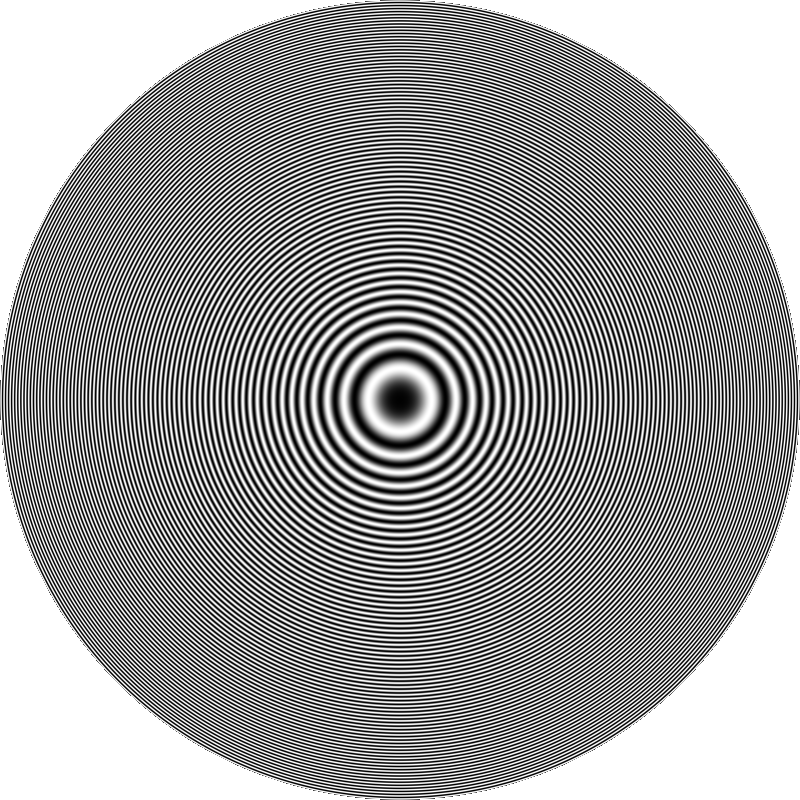
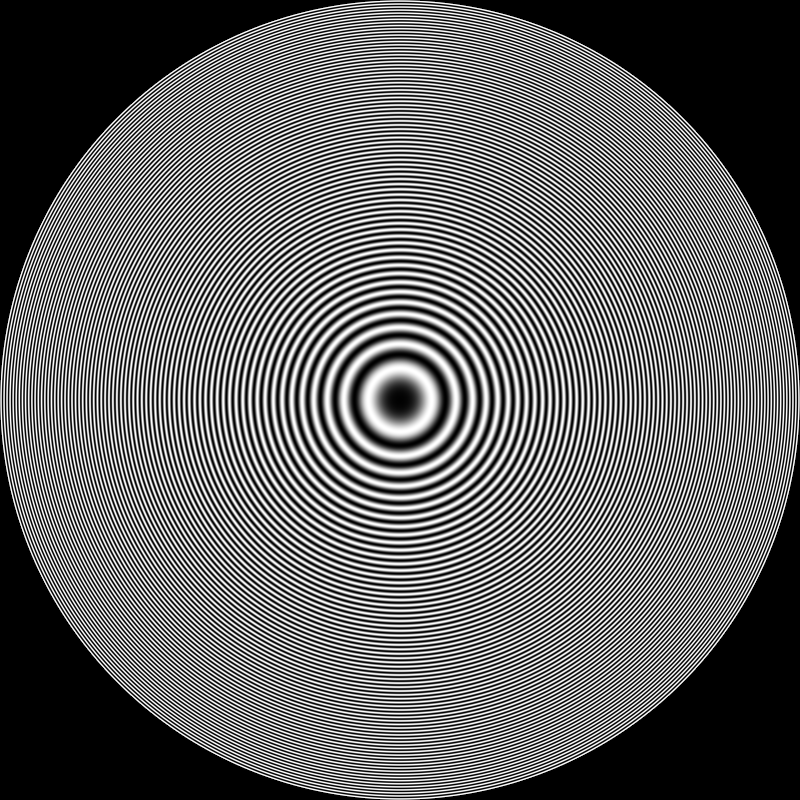
README update

diff --git a/components/engine_diff_rev.py b/components/engine_diff_rev.py
@@ -26,6 +26,7 @@ from components.helpers import (
 )
 from components.preferences_window import getpref, Prefs
 from datetime import datetime
+import matplotlib.colors as mcolors
 
 def calculate_screen_images(
     FieldType: Any,
@@ -154,6 +155,24 @@ def calculate_screen_images(
     PR = FourierPhaseRetrieval(target_amplitude_path=targetpath, new_size=(width, height), pad = (0,0))
     PR.retrieve_phase_mask(max_iter= maxiter, method=method)
     PR.save_retrieved_phase_as_image(resultpath)
+
+    # Post-process: generate monochrome phase mask from hue (phase)
+    try:
+        from PIL import Image
+        if resultpath and path.isfile(resultpath):
+            _img = Image.open(resultpath).convert('RGB')
+            _arr = np.asarray(_img, dtype=float) / 255.0  # shape (H,W,3)
+            # Convert to HSV to get hue channel (range 0..1)
+            _hsv = mcolors.rgb_to_hsv(_arr)
+            _hue = _hsv[..., 0]  # Hue channel
+            _phase = _hue * (2 * np.pi)  # Map hue to 0..2π
+            _gray = np.fliplr(0.5 + np.cos(_phase) / 2.0)  # Apply formula and horizontal flip
+            _gray_u8 = np.clip((_gray * 255.0), 0, 255).astype(np.uint8)
+            _mono_path = resultpath.replace('.png', '_mono.png')
+            Image.fromarray(_gray_u8, mode='L').save(_mono_path)
+            print(f"Monochrome phase mask saved: {_mono_path}")
+    except Exception as _e:
+        print(f"Failed to create monochrome phase mask: {_e}")
 
     # Finalize and write metadata
     try:

diff --git a/README.md b/README.md
@@ -1,15 +1,94 @@
 # DOESim Github Repo
 
+## Installation
+
+### Executable
+Standalone executable files can be found under the releases page. Currently only windows versions. Simply download and open the app.
+
+### Source
+Building the source requires `Python3` and the installation of an external package called [diffractsim](https://github.com/rafael-fuente/diffractsim). Place the folder inside DOEsim master folder, or import / install it with pip. Make sure to install all requirements for it as well. These can be found in `.\diffractsim-main\requirements.txt`. The project can be started with the `main.py` script.
 
 ## The Goal
 
-This is a project which aims to produce an **intuitive, easy to use** playground for **diffractive** and **holographic systems**. Built (currently) on the backbone of **[diffractsim](https://github.com/rafael-fuente/diffractsim)**, the amazing work of **Rafael Fuente**. By giving his python script a modern(ish) Graphical interface, I aim to lower the entry level into analysis of diffractive optical phenomena.  
+This is a project which aims to produce an **intuitive, easy to use** playground for **diffractive** and **holographic systems**. Built on the backbone of **[diffractsim](https://github.com/rafael-fuente/diffractsim)**, the amazing work of **Rafael Fuente**. By giving his python script a modern(ish) Graphical interface, I aim to lower the entry level into analysis of diffractive optical phenomena.  
 
 
 ## The program
 
+### About
 Coded entirely in `Python`, with `Qt6` for the graphical interface, and the above mentioned **[diffractsim](https://github.com/rafael-fuente/diffractsim)** working behind the scenes. For a functional local copy, it is necessary to install all the required packages. A standalone executable is ***planned*** for future release, but my experience with portable, truly standalone `Python`-based executables is lukewarm at best.
 
+### Usage
+
+On first launch, DOESim shows a welcome screen. From here you can create a new workspace with a single click or load an existing one. There is also a link to the project's GitHub page.
+
+<p align="center">
+  <img src="_internal/Screenshots/doesim_welcome.jpg" alt="DOESim welcome screen" width="600" />
+</p>
+
+At the top of the window there is a menu bar with three main menus: **File**, **Edit**
+and **Help**. These are always available:
+
+- **File → New Workspace** – create a new workspace
+- **File → Save Workspace** – save the current workspace
+- **File → Load Workspace** – load a previously saved workspace
+- **Edit → Preferences** – change application preferences and behaviour
+- **Help → Help** – opens a browser window to the project's GitHub page
+- **Help → About** – show information about the program
+
+### Workspace and elements
+
+After creating a new, empty workspace, the first step is to choose the **engine type**
+(the **Engine** dropdown):
+
+<p align="center">
+  <img src="_internal/Screenshots/doesim_empty_ws.jpg" alt="Empty DOESim workspace" width="600" />
+</p>
+
+- for forward simulation: **Diffractsim Forward**
+- for DOE generation / phase retrieval: **Diffractsim Reverse**
+
+This choice cannot be changed within the same workspace once elements have been added.
+
+Depending on the selected engine, the following element types are available:
+
+- **Forward**: `Aperture`, `Lens`, `Screen`
+- **Reverse**: `Aperture Result`, `Target Intensity`
+
+In the top panel you can set the global system parameters (wavelength, extent –
+**Extent X/Y** – and resolution). The extent applies both to the observation plane and
+to the physical size of the elements.
+
+Each element appears as a row in the **Physical Setup** table. The **Edit** button next to
+the name opens a dialog to change that element's detailed properties. Frequently modified
+parameters have their own columns for quicker access.
+
+The **distance** of an element is an absolute position measured from a reference origin
+plane. The order of elements is determined by this distance: to swap two elements you
+must move one of them past the other in distance.
+
+### Element types
+
+<p align="center">
+  <img src="_internal/Screenshots/doesim_used_ws.jpg" alt="DOESim workspace with elements" width="600" />
+</p>
+
+- <span style="display:inline-flex; align-items:center; gap:6px;"><img src="_internal/resources/aperture-icon.png" alt="Aperture icon" width="25" height="25" /></span> **Aperture** – arbitrary aperture shape defined by an image file. To choose the image, click the `...` button in the last column.
+  - amplitude mask: the pixel brightness controls transmission (white ≈ transparent)
+  - phase mask: for grayscale images the brightness, for color images the hue determines the phase shift.
+- <span style="display:inline-flex; align-items:center; gap:6px;"><img src="_internal/resources/lens-icon.png" alt="Lens icon" width="25" height="25" /></span> **Lens** – thin lens that focuses the incoming wavefront to a given focal point. The only tunable parameter is the focal length. *Please note that geometrically impossible lenses cause incorrect behaviour.*
+- <span style="display:inline-flex; align-items:center; gap:6px;"><img src="_internal/resources/screen-icon.png" alt="Screen icon" width="25" height="25" /></span> **Screen** – observation plane where the intensity pattern of the incoming wavefront is recorded. To create an animation along the optical axis, enable the **Range of screens** option. Two extra parameters become available:
+  - **Range end** – end of the range as an absolute position
+  - **Step** – how many planes the given spatial range is divided into.
+
+  Right‑click on a displayed result to open a context menu for saving the image or
+  animation.
+
+- <span style="display:inline-flex; align-items:center; gap:6px;"><img src="_internal/resources/aperture-result-icon.png" alt="Aperture Result icon" width="25" height="25" /></span> **Aperture Result** – in reverse (phase retrieval) mode this replaces the Aperture element. Here you set the phase‑retrieval parameters (maximum iteration count, algorithm, etc.). Right‑click on the displayed result to save the image from the context menu.
+
+- <span style="display:inline-flex; align-items:center; gap:6px;"><img src="_internal/resources/target-intensity-icon.png" alt="Target Intensity icon" width="25" height="25" /></span> **Target Intensity** – in reverse mode this replaces the screen and holds the desired target intensity pattern. To choose the image, click the `...` button in the last column.
+
+<br/>
 <br/>
 
 # Important disclaimer
